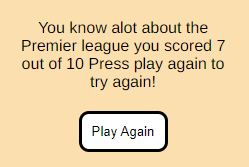
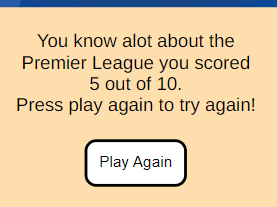
Updated wireframes to fit with latest site

Changed region(s): [[0.0562, 0.1198, 0.9277, 0.5689], [0.2811, 0.6587, 0.7028, 0.9281], [0.0, 0.0, 1.0, 0.0599]]

diff --git a/assets/css/style.css b/assets/css/style.css
@@ -426,7 +426,6 @@ footer a {
 /* Media query for smaller desktop devices */
 @media screen and (min-width: 1200px) {
 
-
     /* Heading styling */
     h1 {
         font-size: 35px;

diff --git a/README.md b/README.md
@@ -23,6 +23,9 @@ Premier League greatest facts is a quiz designed around the best league in the w
       - [Desktop](#desktop)
   - [Key Features](#key-features)
     - [Favicon](#favicon)
+    - [Quiz Intro](#quiz-intro)
+      - [Quiz Intro Mobile view](#quiz-intro-mobile-view)
+      - [Quiz Intro Desktop view](#quiz-intro-desktop-view)
     - [Questions](#questions)
       - [Questions Mobile view](#questions-mobile-view)
       - [Questions Desktop view](#questions-desktop-view)
@@ -149,6 +152,17 @@ I decided to go for the following font style for the headings, as like the headi
 
 ![Favicon view](docs/wireframes/favicon-quiz.png)
 
+### Quiz Intro 
+
+* This element will introduce the user to what to expect when loading the Quiz. Informing them about the chance of entering a raffle which gives a purpose to the quiz instantly.
+
+#### Quiz Intro Mobile view 
+
+![Mobile view Quiz Intro](docs/wireframes/quiz-intro-mobile.png)
+
+#### Quiz Intro Desktop view 
+
+![Desktop view Quiz Intro](docs/wireframes/quiz-intro-desktop.png)
 
 ### Questions 
 
@@ -248,19 +262,18 @@ I decided to go for the following font style for the headings, as like the headi
 
 #### Mobile all questions correct 
 
-![Mobile view all questions correct](docs/wireframes/join-raffle-mobile.png)
+![Mobile view all questions correct](docs/wireframes/score-all-correct-mobile.png)
 
 #### Desktop less than 3 score
 
 ![Desktop view less than 3](docs/wireframes/score-less-than-three-desktop.png)
-
 #### Desktop less than or 9 score
 
 ![Desktop view less than or equal to 9](docs/wireframes/score-less-than-nine-desktop.png)
 
 #### Desktop all questions correct
 
-![Desktop view all questions correct](docs/wireframes/join-raffle-dekstop.png)
+![Desktop view all questions correct](docs/wireframes/score-all-correct-desktop.png)
 
 ### Contact page
 
